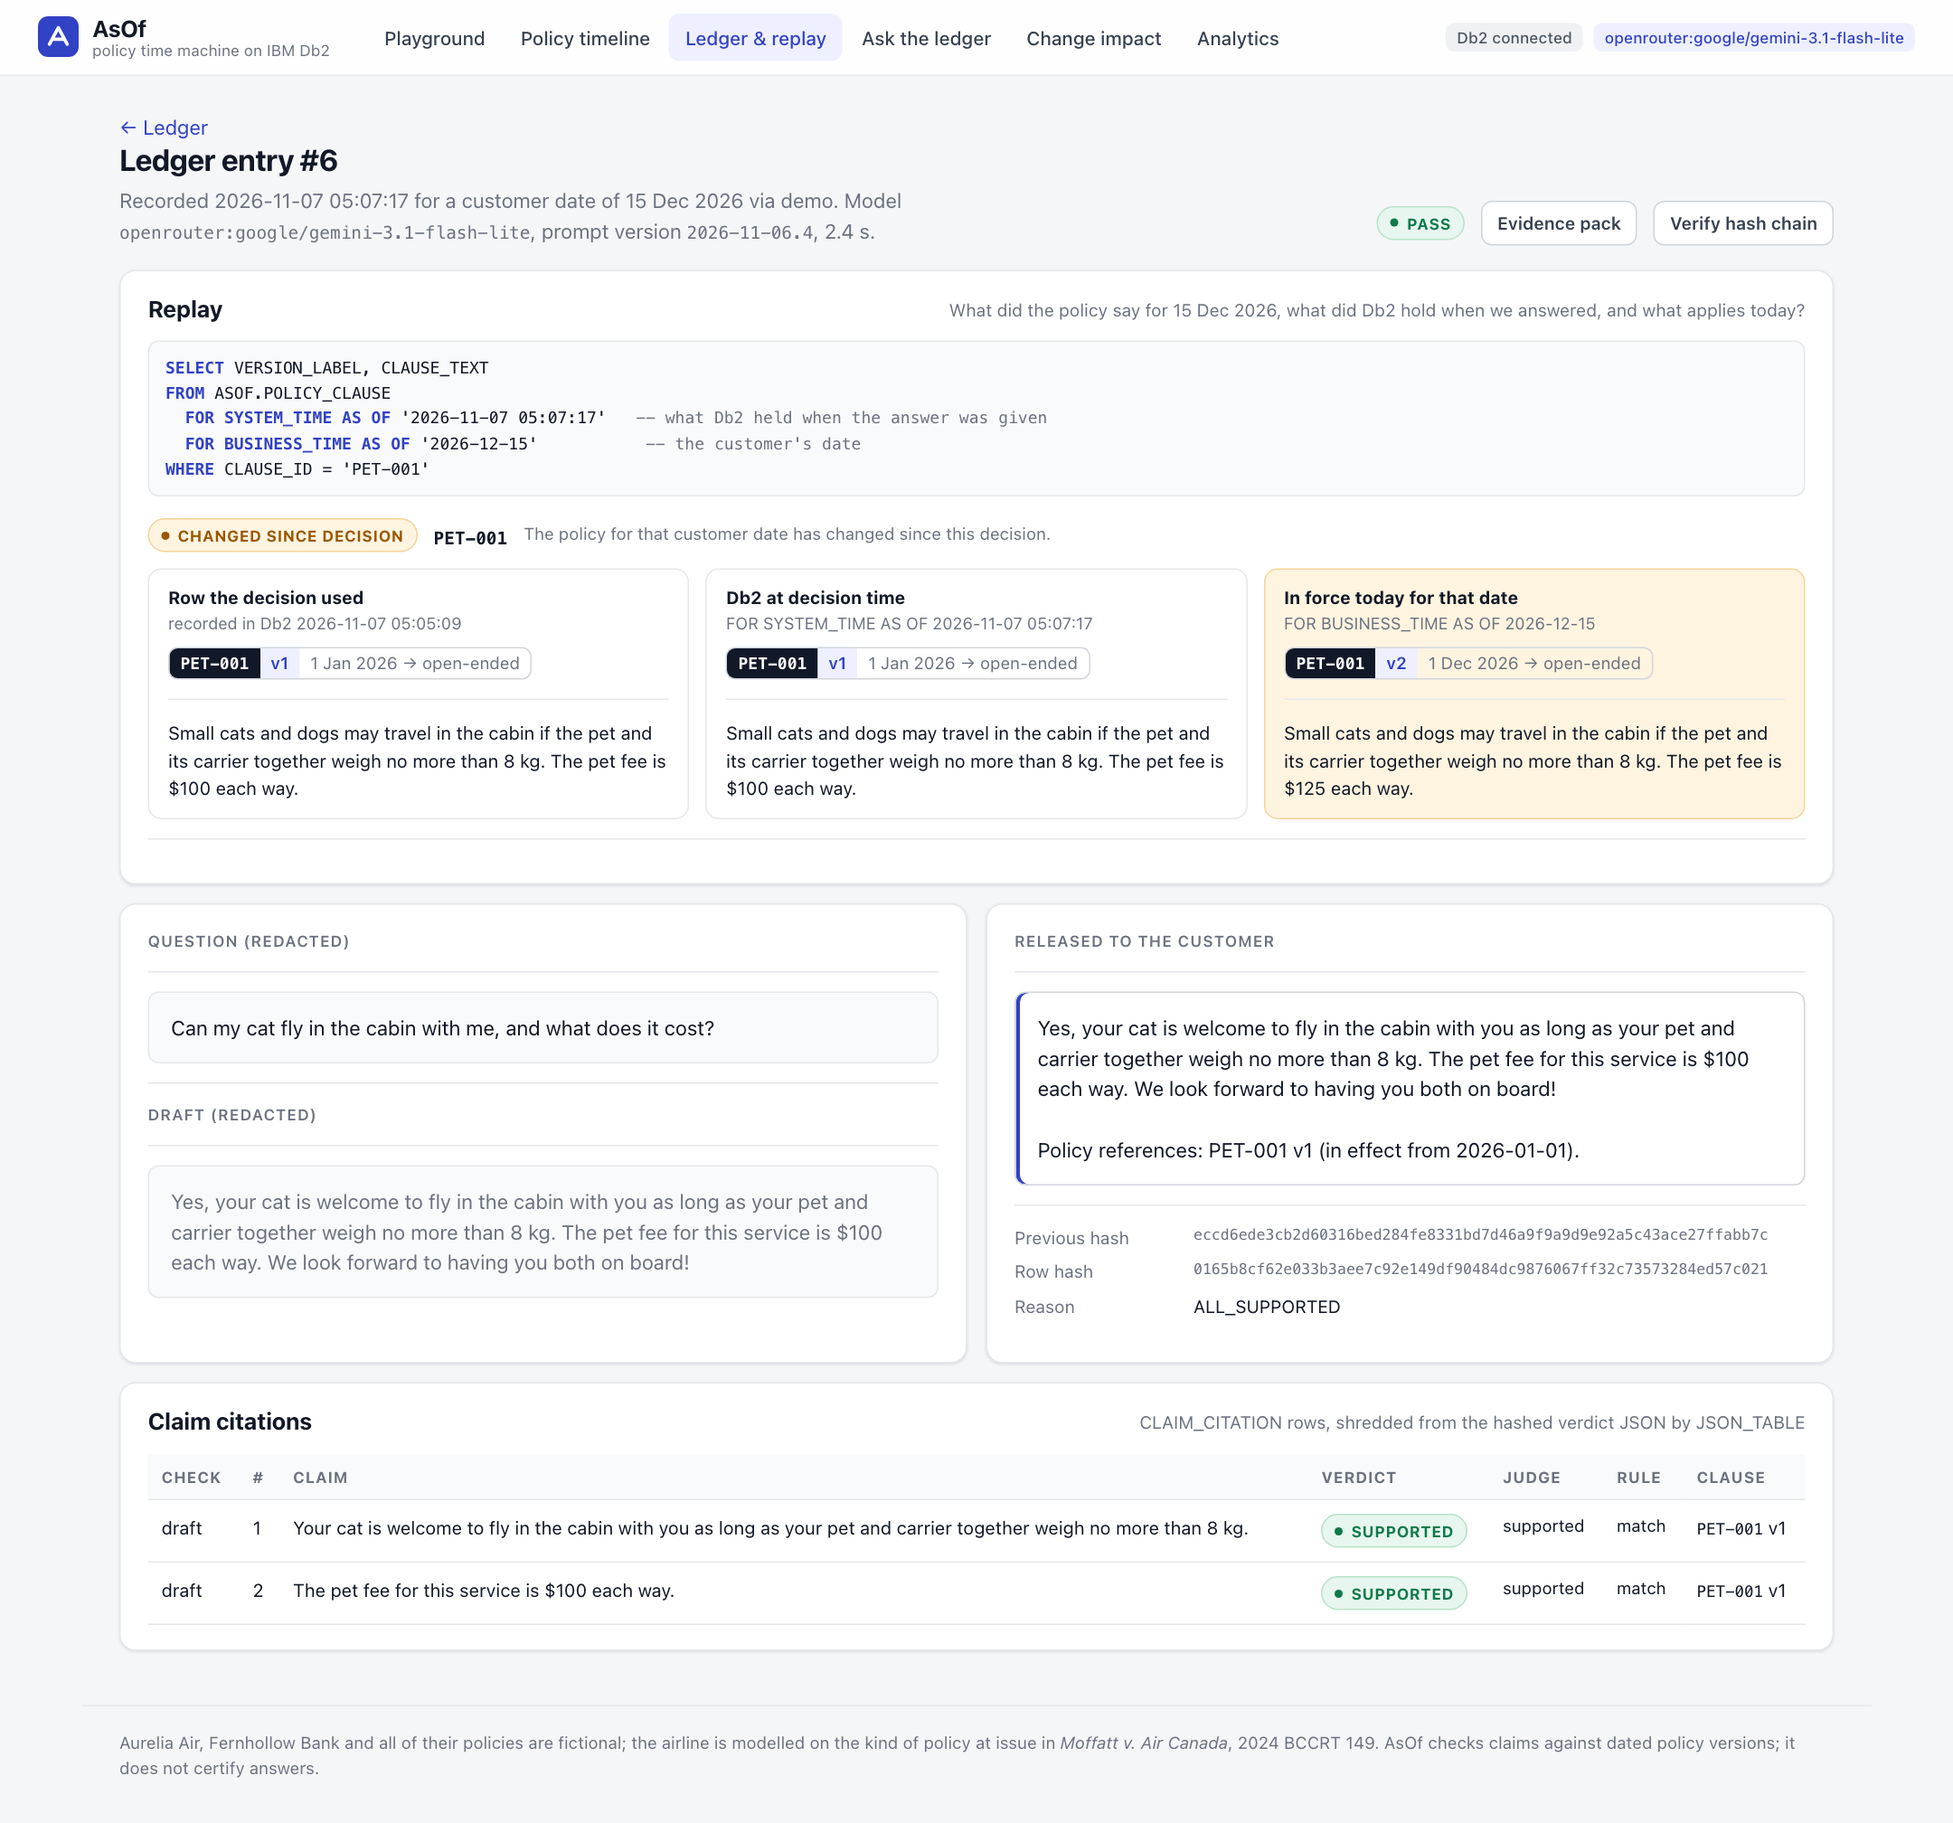
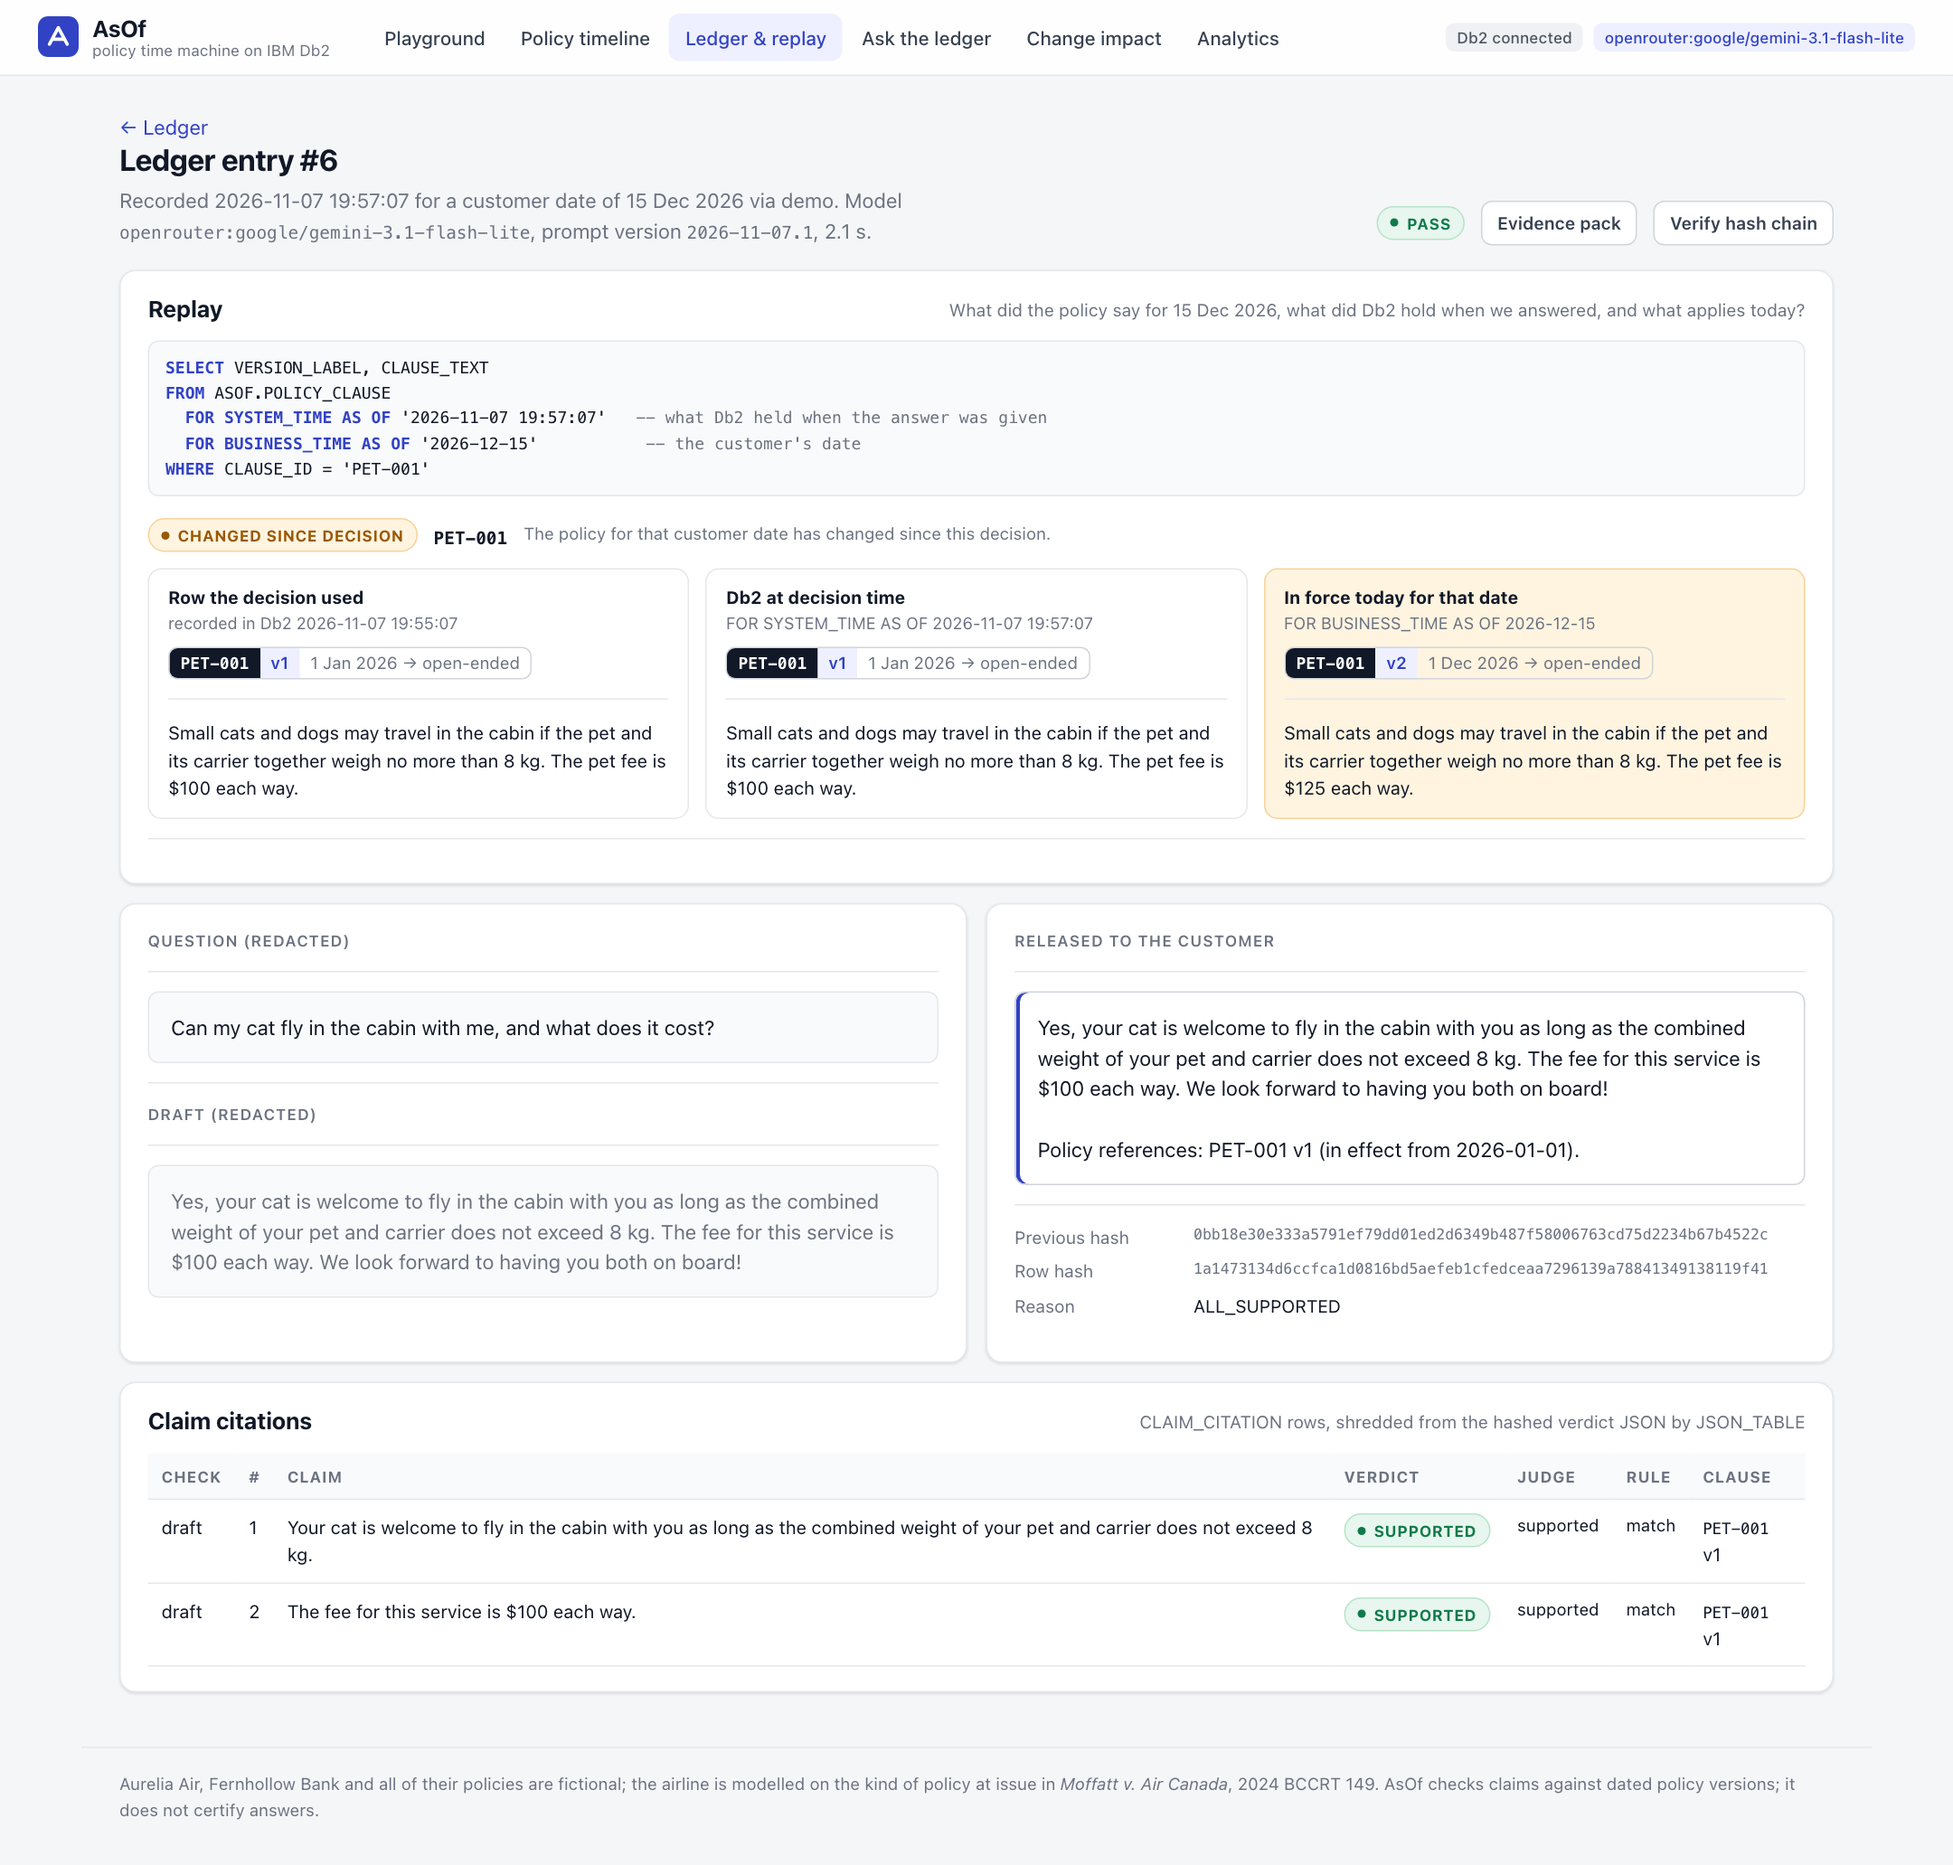
docs(asof): retake the screenshots with the anchor check on the ledger
All 15 from a clean reset and demo; the ledger and entry screens now show the
chain-head anchors matching. The deck is 14 slides, not 13.

diff --git a/submissions/asof/README.md b/submissions/asof/README.md
@@ -641,7 +641,7 @@ The two misses were both escalations instead of corrections. **BT10:** the judge
 
 ## Screenshots & Demo
 
-- **Slides:** [docs/slides/AsOf_slides.pdf](docs/slides/AsOf_slides.pdf), a 13-slide overview (problem, workflow, architecture, Db2 integration, evaluation, impact).
+- **Slides:** [docs/slides/AsOf_slides.pdf](docs/slides/AsOf_slides.pdf), a 14-slide deck in IBM's Carbon design (problem, solution, agentic AI, Db2 integration, workflow, architecture, security, evaluation, impact and status).
 - **Live demo:** not hosted, on purpose. AsOf's core flows write to Db2 (the ledger, policy changes) and call a paid LLM; hosting them publicly would mean exposing a writable database or a funded API key, and a read-only snapshot would hide exactly the flows that matter. The setup above runs it locally with one command (`./quickstart.sh`).
 - **Screenshots:** all taken from a clean demo run (`python -m asof.setup --reset --yes`, then `python -m asof.demo`). The playground is at the top of this README.
 
@@ -664,8 +664,8 @@ Both policy documents run through the same screens: the playground has two bank 
 | ![Replay of a December pet answer after the fee change](docs/screenshots/05-replay-after-change.png) | ![Timeline and system-time history after the change](docs/screenshots/06-timeline-after-change.png) |
 | ![The change-impact agent's drafted correction, checked and waiting for the editor](docs/screenshots/12-drafted-correction.png) | ![The correction approved: the help-centre answer split in time](docs/screenshots/13-correction-approved.png) |
 | ![Ask the ledger as the read-only analyst: decisions visible, customer text masked by Db2](docs/screenshots/09-ask-the-ledger.png) | ![The bank's Moffatt case: "refunded automatically", corrected from FRV-001 v1](docs/screenshots/10-bank-playground.png) |
-| ![Fernhollow Bank's fee schedule on the policy timeline](docs/screenshots/11-bank-timeline.png) | ![Audit ledger with the chain verified](docs/screenshots/07-ledger.png) |
-| ![Ledger entry #1 with its replay: the clause row used, what Db2 held at that moment, and what applies today](docs/screenshots/03-ledger-replay.png) | ![Analytics from Db2 views: decisions, claims by area, rule-check overrides](docs/screenshots/08-analytics.png) |
+| ![Fernhollow Bank's fee schedule on the policy timeline](docs/screenshots/11-bank-timeline.png) | ![Audit ledger: VERIFY_CHAIN intact, and the chain-head anchors kept outside Db2 matching every entry](docs/screenshots/07-ledger.png) |
+| ![Ledger entry #1 with the chain and anchor checks and its replay: the clause row used, what Db2 held at that moment, and what applies today](docs/screenshots/03-ledger-replay.png) | ![Analytics from Db2 views: decisions, claims by area, rule-check overrides](docs/screenshots/08-analytics.png) |
 | ![The pet fee change previewed: Db2 applied it, ran CHANGE_IMPACT and rolled back, nothing saved](docs/screenshots/14-impact-preview.png) | ![A receipt checked against the ledger: entry #1 is intact](docs/screenshots/15-receipt-check.png) |
 
 **The change-impact story in four clicks:** run `python -m asof.demo` (it records pet-fee answers for a November and a December trip), open **Change impact**, choose the preset "Pet fee to $125 from 1 Dec 2026", and apply it. Db2 splits PET-001 into v1 (to 1 Dec) and v2 (from 1 Dec) with `FOR PORTION OF BUSINESS_TIME`. `CHANGE_IMPACT` reports the November answer as historically valid, the December answer as stale (the customer was told $100 for a trip that now costs $125), and help-centre answer PA-PET-001 as needing review from 1 Dec 2026. Replay on the December entry shows all three states side by side.
